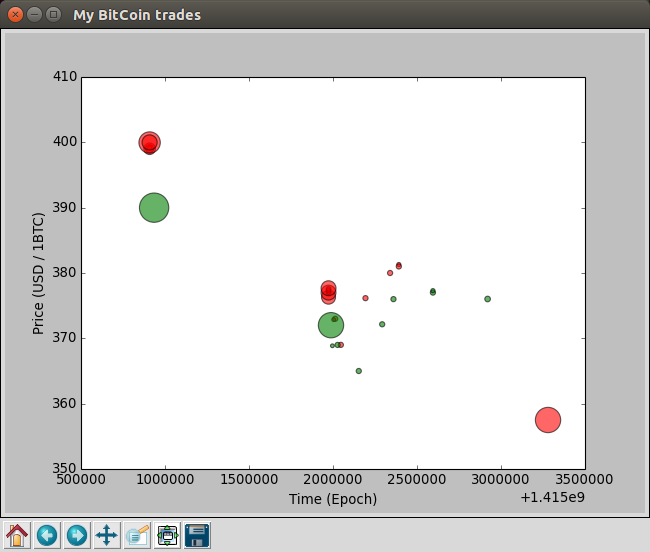
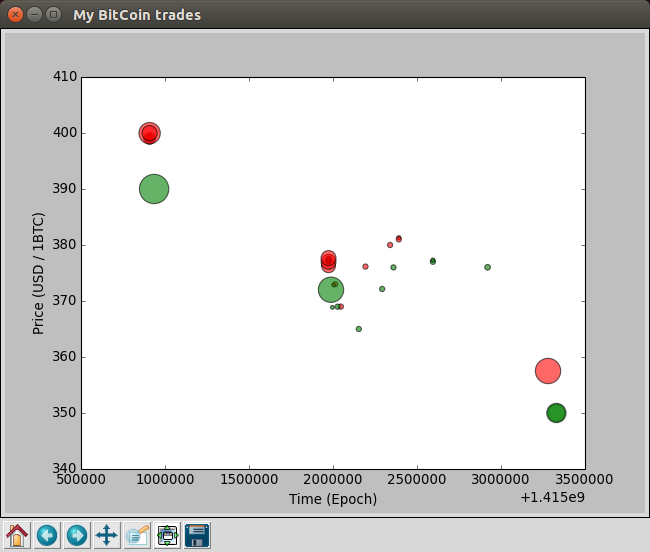
V2.0 donezo!

diff --git a/index.html b/index.html
@@ -46,7 +46,7 @@
                     <li><a href="https://twitter.com/DawsonBotsford"><i class="fa fa-twitter"></i></a></li>                   
                 </ul> 
             </div><!--//profile-->
-            <a class="btn btn-cta-primary pull-right" href="http://themes.3rdwavemedia.com/" target="_blank"><i class="fa fa-paper-plane"></i> Contact Me</a>              
+            <!--<a class="btn btn-cta-primary pull-right" href="http://themes.3rdwavemedia.com/" target="_blank"><i class="fa fa-paper-plane"></i> Contact Me</a> -->
         </div><!--//container-->
     </header><!--//header-->
     
@@ -80,106 +80,26 @@
                                     
                                 <div class="desc text-left">                                    
                                     <p>In my own interest, I began trading BitCoin several months ago. This has led me to a love for algorithmic trading and bots, so I have decided to open source my contributions. </p>
-                                    <p>Between now and May 2016, I will be developing my Senior Thesis study of algorithmic trading and exchange analysis in the CryptoCurrency space. Stay tuned!</p>
+                                    <p>Between now and May 2016, I will be developing my Senior Thesis where I will evaluate algorithmic trading and exchange analysis in the CryptoCurrency space. Follow me on GitHub to see progress!</p>
                                 </div><!--//desc-->         
-                                <a class="btn btn-cta-secondary" href="https://wrapbootstrap.com/theme/delta-promote-mobile-app-effectively-WB09R23P8?ref=3wm" target="_blank"><i class="fa fa-thumbs-o-up"></i> Back my project</a>                 
+                                <!--<a class="btn btn-cta-secondary" href="https://wrapbootstrap.com/theme/delta-promote-mobile-app-effectively-WB09R23P8?ref=3wm" target="_blank"><i class="fa fa-thumbs-o-up"></i> Back my project</a>-->
                             </div><!--//item-->
                             <hr class="divider" />
                             <div class="item row">
-                                <a class="col-md-4 col-sm-4 col-xs-12" href="http://themes.3rdwavemedia.com/website-templates/responsive-bootstrap-theme-for-products-velocity/" target="_blank">
-                                <img class="img-responsive project-image" src="assets/images/projects/project-4.png" alt="project name" />
+                                <a class="col-md-4 col-sm-4 col-xs-12" href="https://github.com/dawsonbotsford/bitsplit" target="_blank">
+                                <img class="img-responsive project-image" src="assets/images/projects/bit-split.png" alt="project name" />
                                 </a>
                                 <div class="desc col-md-8 col-sm-8 col-xs-12">
-                                    <h3 class="title"><a href="http://themes.3rdwavemedia.com/website-templates/responsive-bootstrap-theme-for-products-velocity/" target="_blank">Velocity - Designed for Products</a></h3>
-                                    <p>You can put one of your secondary projects here. Suspendisse in tellus dolor. Vivamus a tortor eu turpis pharetra consequat quis non metus. Aliquam aliquam, orci eu suscipit pellentesque, mauris dui tincidunt enim, eget iaculis ante dolor non turpis.</p>
-                                    <p><a class="more-link" href="http://themes.3rdwavemedia.com/website-templates/responsive-bootstrap-theme-for-products-velocity/" target="_blank"><i class="fa fa-external-link"></i> Find out more</a></p>
+                                    <h3 class="title"><a href="https://github.com/dawsonbotsford/bitsplit" target="_blank">BitSplit - Split Costs in BitCoin</a></h3>
+                                    <p>Remember that thing your friends owe you back for when you payed for it a million years ago? Give it to BitSplit and we will send out the proper invoice amounts to your friends. A proof of concept created at Money 20/20 Hackathon 2014.</p>
                                 </div><!--//desc-->                          
                             </div><!--//item-->
                             
-                            <div class="item row">
-                                <a class="col-md-4 col-sm-4 col-xs-12" href="https://wrapbootstrap.com/theme/tempo-designed-for-startups-WB07364T3?ref=3wm" target="_blank">
-                                <img class="img-responsive project-image" src="assets/images/projects/project-1.png" alt="project name" />
-                                </a>
-                                <div class="desc col-md-8 col-sm-8 col-xs-12">
-                                    <h3 class="title"><a href="https://wrapbootstrap.com/theme/tempo-designed-for-startups-WB07364T3?ref=3wm" target="_blank">Tempo - Designed for Startups</a></h3>
-                                    <p>You can put one of your secondary projects here. Suspendisse in tellus dolor. Vivamus a tortor eu turpis pharetra consequat quis non metus. Aliquam aliquam, orci eu suscipit pellentesque, mauris dui tincidunt enim, eget iaculis ante dolor non turpis.</p>
-                                    <p><a class="more-link" href="https://wrapbootstrap.com/theme/tempo-designed-for-startups-WB07364T3?ref=3wm" target="_blank"><i class="fa fa-external-link"></i> Find out more</a></p>
-                                </div><!--//desc-->                          
-                            </div><!--//item-->
-                            
-                            <div class="item row">
-                                <a class="col-md-4 col-sm-4 col-xs-12" href="https://wrapbootstrap.com/theme/delta-promote-mobile-app-effectively-WB09R23P8?ref=3wm" target="_blank">
-                                <img class="img-responsive project-image" src="assets/images/projects/project-2.png" alt="project name" />
-                                </a>
-                                <div class="desc col-md-8 col-sm-8 col-xs-12">
-                                    <h3 class="title"><a href="https://wrapbootstrap.com/theme/delta-promote-mobile-app-effectively-WB09R23P8?ref=3wm" target="_blank">Delta - Designed for Mobile Apps</a></h3>
-                                    <p> You can put one of your secondary projects here. Quisque rutrum. Aenean imperdiet. Etiam ultricies nisi vel augue. Curabitur ullamcorper ultricies nisi. Nam eget dui. Etiam rhoncus. Maecenas tempus, tellus eget condimentum rhoncus, sem quam semper libero, sit amet adipiscing sem neque sed ipsum.</p>
-                                    <p><a class="more-link" href="https://wrapbootstrap.com/theme/delta-promote-mobile-app-effectively-WB09R23P8?ref=3wm" target="_blank"><i class="fa fa-external-link"></i> Find out more</a></p>
-                                </div><!--//desc-->                          
-                            </div><!--//item-->
                             
                         </div><!--//content-->  
                     </div><!--//section-inner-->                 
                 </section><!--//section-->
                 
-                <section class="projects section">
-                    <div class="section-inner">
-                        <h2 class="heading">Other Projects</h2>
-                        <div class="content">
-                            <div class="item">
-                                <h3 class="title"><a href="#">Project Title Cras Lacus</a></h3>
-                                <p class="summary">Provide a brief description of your project. Ut enim ad minima veniam, quis nostrum exercitationem ullam corporis suscipit laboriosam, nisi ut aliquid ex ea commodi consequatu.</p>
-                                <p><a class="more-link" href="https://wrapbootstrap.com/theme/delta-promote-mobile-app-effectively-WB09R23P8?ref=3wm" target="_blank"><i class="fa fa-external-link"></i> Find out more</a></p>
-                            </div><!--//item-->
-                            <div class="item">
-                                <h3 class="title"><a href="#">Project Title Cras eget lacus</a> <span class="label label-theme">Open Source</span></h3>
-                                <p class="summary">Provide a brief description of your project. Maecenas ornare ultricies risus, in fermentum augue consectetur in. Vestibulum vitae mauris iaculis, sollicitudin velit in, molestie nulla. </p>
-                                <p><a class="more-link" href="https://wrapbootstrap.com/theme/delta-promote-mobile-app-effectively-WB09R23P8?ref=3wm" target="_blank"><i class="fa fa-external-link"></i> View on GitHub</a></p>
-                            </div><!--//item-->
-                            <div class="item">
-                                <h3 class="title"><a href="#">Project Title Maecenas Ornare</a> <span class="label label-theme">Open Source</span></h3>
-                                <p class="summary">Provide a brief description of your project. Lorem ipsum dolor sit amet, consectetur adipiscing elit. In vel purus enim. Etiam tortor felis, fermentum ac ultrices sed.</p>
-                                <p><a class="more-link" href="https://wrapbootstrap.com/theme/delta-promote-mobile-app-effectively-WB09R23P8?ref=3wm" target="_blank"><i class="fa fa-external-link"></i> View on GitHub</a></p>
-                            </div><!--//item-->
-                            
-                            <a class="btn btn-cta-secondary" href="#">More on CoderWall <i class="fa fa-chevron-right"></i></a>
-                            
-                        </div><!--//content-->  
-                    </div><!--//section-inner-->                 
-                </section><!--//section-->
-                
-                <section class="experience section">
-                    <div class="section-inner">
-                        <h2 class="heading">Work Experience</h2>
-                        <div class="content">
-                            <div class="item">
-                                <h3 class="title">Co-Founder & Lead Developer - <span class="place"><a href="#">Startup Hub</a></span> <span class="year">(2014 - Present)</span></h3>
-                                <p>Aenean leo ligula, porttitor eu, consequat vitae, eleifend ac, enim. Aliquam lorem ante, dapibus in, viverra quis, feugiat a, tellus. Phasellus viverra nulla ut metus varius laoreet. Donec vitae sapien ut libero venenatis faucibus. Nullam quis ante. Etiam sit amet orci eget eros faucibus tincidunt.</p>
-                            </div><!--//item-->
-                            <div class="item">
-                                <h3 class="title">Software Engineer - <span class="place"><a href="#">Google</a></span> <span class="year">(2013 - 2014)</span></h3>
-                                <p>Vivamus a tortor eu turpis pharetra consequat quis non metus. Aliquam aliquam, orci eu suscipit pellentesque, mauris dui tincidunt enim. Sed fringilla mauris sit amet nibh. Donec sodales sagittis magna.</p>
-                            </div><!--//item-->
-                            
-                            <div class="item">
-                                <h3 class="title">Software Engineer - <span class="place"><a href="#">eBay</a></span> <span class="year">(2012 - 2013)</span></h3>
-                                <p>Maecenas tempus, tellus eget condimentum rhoncus, sem quam semper libero, sit amet adipiscing sem neque sed ipsum.</p>
-                            </div><!--//item-->
-                            
-                        </div><!--//content-->  
-                    </div><!--//section-inner-->                 
-                </section><!--//section-->
-                <section class="github section">
-                    <div class="section-inner">
-                        <h2 class="heading">My GitHub</h2>
-                        <p>You can embed your GitHub activities using Casey Scarborough's <a href="http://caseyscarborough.com/projects/github-activity/" target="_blank">GitHub Activity Stream</a> widget. You can also take a screenshot of your GitHub chart and put it here for fun.</p>
-                        <p><a href="#"><img class="img-responsive" src="assets/images/github-chart.png" alt="GitHub Contributions Chart" /></a></p>               
-                        <!--//Usage: http://caseyscarborough.com/projects/github-activity/ -->                       
-                        <div id="ghfeed" class="ghfeed">
-                        </div><!--//ghfeed-->
-                        
-                    </div><!--//secton-inner-->
-                </section><!--//section-->
             </div><!--//primary-->
             <div class="secondary col-md-4 col-sm-12 col-xs-12">
                  <aside class="info aside section">
@@ -204,38 +124,36 @@
                             <div class="skillset">
                               <!-- skillset ideas: http://english.stackexchange.com/questions/83832/list-of-expertise-levels-from-beginner-to-expert --> 
                                 <div class="item">
-                                    <h3 class="level-title">Python<span class="level-label" data-toggle="tooltip" data-placement="left" data-animation="true" title="You can use the tooltip to add more info...">Proficient</span></h3>
+                                    <h3 class="level-title">Python<span class="level-label" data-toggle="tooltip" data-placement="left" data-animation="true" title="You can use the tooltip to add more info...">Best</span></h3>
                                     <div class="level-bar">
-                                        <div class="level-bar-inner" data-level="60%">
+                                        <div class="level-bar-inner" data-level="70%">
                                         </div>                                      
                                     </div><!--//level-bar-->                                 
                                 </div><!--//item-->
                                 
                                 <div class="item">
-                                    <h3 class="level-title">Javascript &amp; jQuery<span class="level-label">Proficient</span></h3>
+                                    <h3 class="level-title">Javascript &amp; jQuery<span class="level-label">Better</span></h3>
                                     <div class="level-bar">
-                                        <div class="level-bar-inner" data-level="60%">
+                                        <div class="level-bar-inner" data-level="57%">
                                         </div>                                      
                                     </div><!--//level-bar-->                                 
                                 </div><!--//item-->
                                 
                                 <div class="item">
-                                    <h3 class="level-title">HTML &amp; CSS<span class="level-label">Apprentice</span></h3>
+                                    <h3 class="level-title">HTML &amp; CSS<span class="level-label">Better</span></h3>
                                     <div class="level-bar">
-                                        <div class="level-bar-inner" data-level="50%">
+                                        <div class="level-bar-inner" data-level="57%">
                                         </div>                                      
                                     </div><!--//level-bar-->                                 
                                 </div><!--//item-->
                                 
                                 <div class="item">
-                                    <h3 class="level-title">C &amp; C++<span class="level-label">Apprentice</span></h3>
+                                    <h3 class="level-title">C &amp; C++<span class="level-label">Decent</span></h3>
                                     <div class="level-bar">
-                                        <div class="level-bar-inner" data-level="50%">
+                                        <div class="level-bar-inner" data-level="45%">
                                         </div>                                      
                                     </div><!--//level-bar-->                                 
                                 </div><!--//item-->
-                                
-                                <p><a class="more-link" href="#"><i class="fa fa-external-link"></i> More on Coderwall</a></p> 
                             </div>              
                         </div><!--//content-->  
                     </div><!--//section-inner-->                 
@@ -258,35 +176,13 @@
                         <h2 class="heading">Recent Conferences</h2>
                         <div class="content">
                             <ul class="list-unstyled">
-                                <li><i class="fa fa-calendar"></i> <a href="https://developer.apple.com/wwdc/" target="_blank">Money 20/20 Hackathon</a> (Las Vegas)</li>
-                                <li><i class="fa fa-calendar"></i> <a href="http://hive.aigaseattle.org/">HackGT</a> (Georgia Tech)</li>
+                                <li><i class="fa fa-calendar"></i> <a href="http://blog.chain.com/post/101827636256/money-20-20-hackathon" target="_blank">Money 20/20 Hackathon</a> (Las Vegas)</li>
+                                <li><i class="fa fa-calendar"></i> <a href="http://hackgt.com/" target="_blank">HackGT</a>(Atlanta)</li>
                             </ul>
                         </div><!--//content-->
                     </div><!--//section-inner-->
                 </aside><!--//section-->
-                
-                <aside class="credits aside section">
-                    <div class="section-inner">
-                        <h2 class="heading">Credits</h2>
-                        <div class="content">
-                            <ul class="list-unstyled">
-                                <li><a href="http://getbootstrap.com/" target="_blank"><i class="fa fa-external-link"></i> Bootstrap 3.2</a></li>
-                                <li><a href="http://fortawesome.github.io/Font-Awesome/" target="_blank"><i class="fa fa-external-link"></i> FontAwsome 4.1</a></li>
-                                <li><a href="http://jquery.com/" target="_blank"><i class="fa fa-external-link"></i> jQuery</a></li>
-                                <li><a href="http://caseyscarborough.com/projects/github-activity/" target="_blank"><i class="fa fa-external-link"></i> GitHub Activity Stream</a></li>
-                                
-                                <li>iPad and iPhone mocks: <a href="https://dribbble.com/perlerar" target="_blank">Regy Perlera</a></li>
-                                
-                            </ul>
-                            
-                            <hr/>
-                            
-                             <p>This responsive HTML5 CSS3 site template is handcrafted by UX designer <a href="https://www.linkedin.com/in/xiaoying" target="_blank">Xiaoying Riley</a> at <a href="http://themes.3rdwavemedia.com/" target="_blank">3rd Wave Media</a> for developers and is <strong>FREE</strong> under the <a class="dotted-link" href="http://creativecommons.org/licenses/by/3.0/" target="_blank">Creative Commons Attribution 3.0 License</a></p>
-                            <a class="btn btn-cta-primary btn-download" href="http://themes.3rdwavemedia.com/website-templates/free-responsive-website-template-for-developers/" target="_blank"><i class="fa fa-download"></i> I want to download</a>
-                        </div><!--//content-->
-                    </div><!--//section-inner-->
-                </aside><!--//section-->
-              
+
             </div><!--//secondary-->    
         </div><!--//row-->
     </div><!--//masonry-->

diff --git a/assets/css/styles.css b/assets/css/styles.css
@@ -358,7 +358,7 @@ iframe {
   margin-bottom: 10;
 }
 .skills .skillset .level-title .level-label {
-  color: #ccd1d6;
+  color: #778492;
   font-size: 14px;
   font-weight: 400;
   font-family: "Lato", arial, sans-serif;
